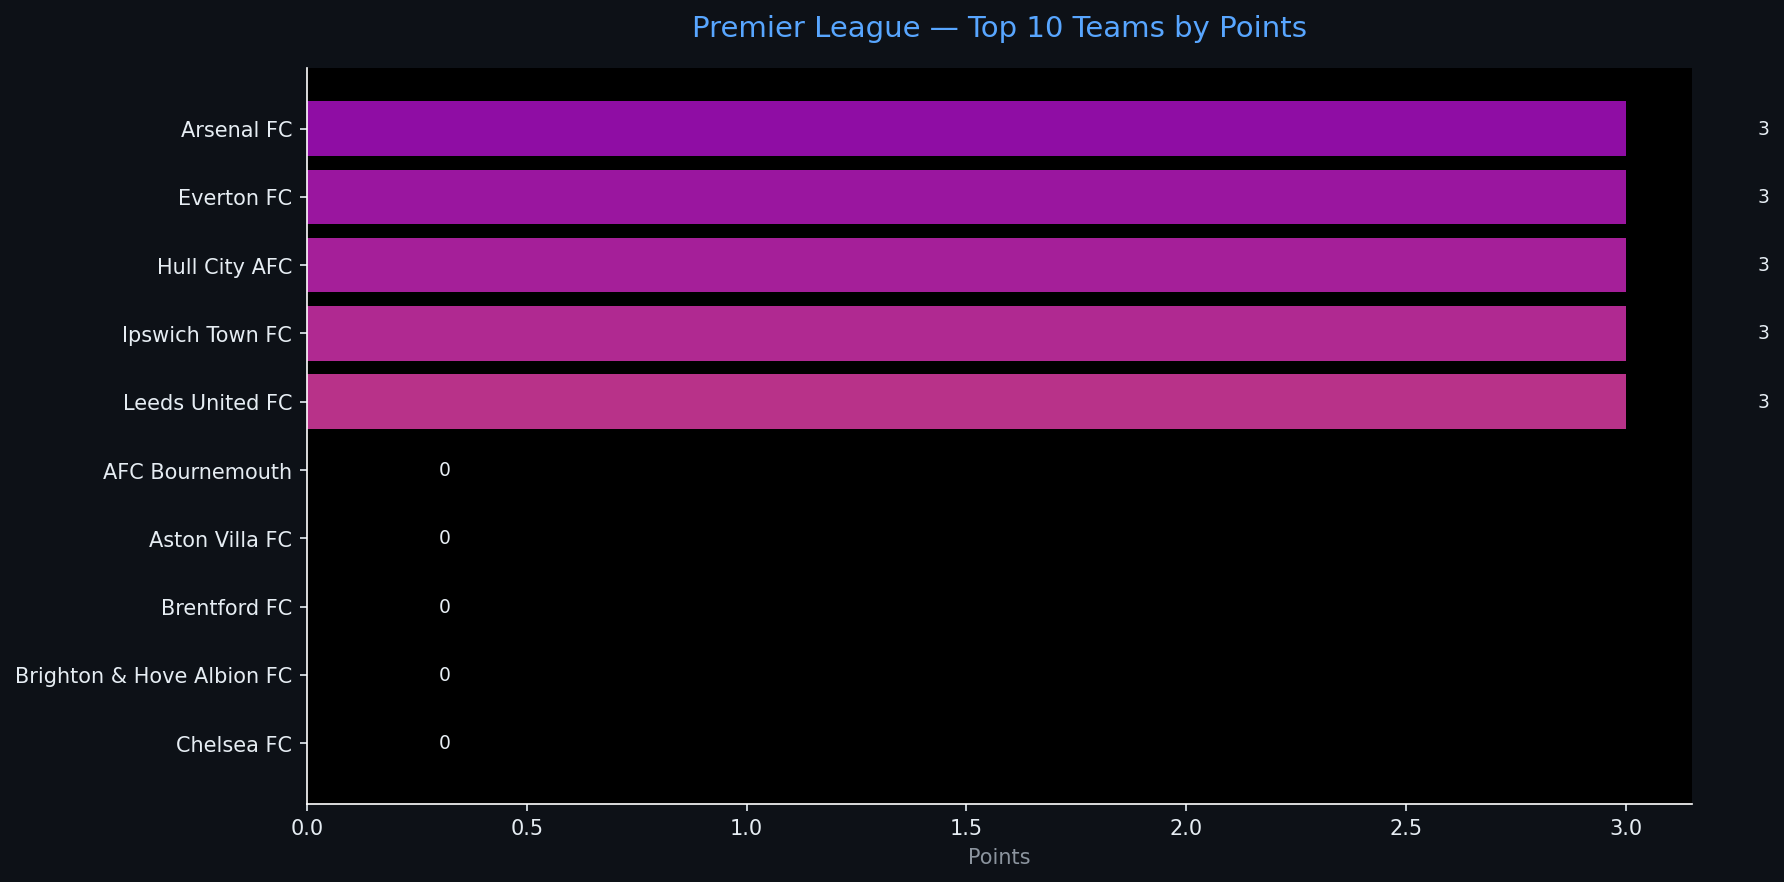
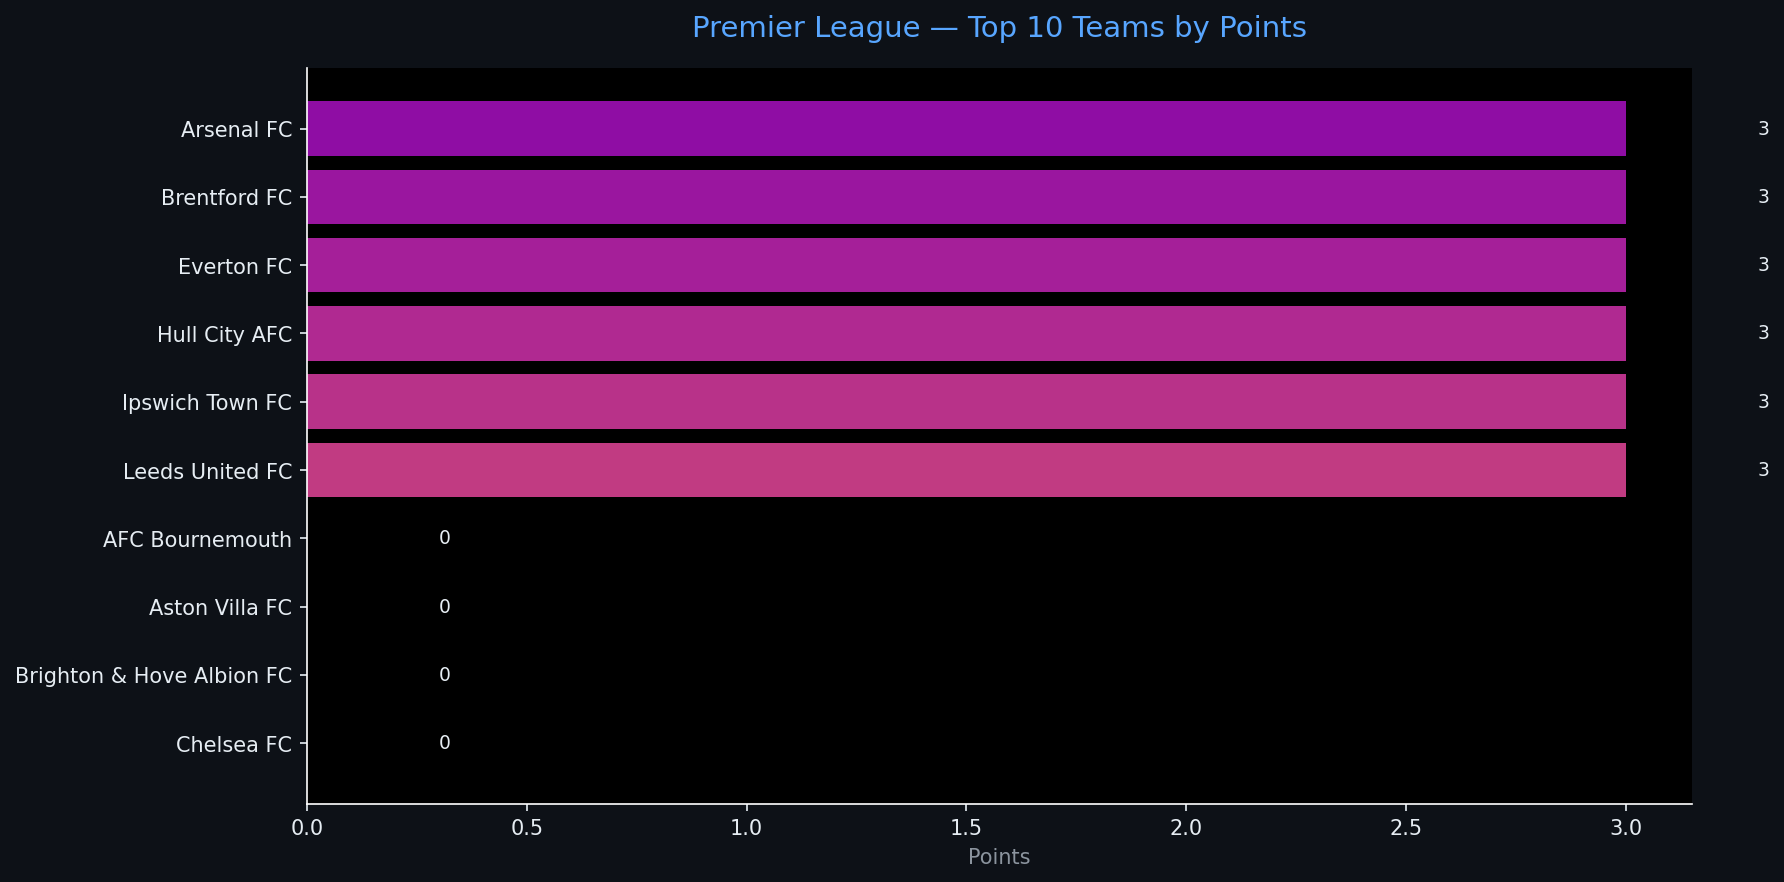
Automated ETL data update: 2026-08-22 18:18

diff --git a/reports/pipeline_report.html b/reports/pipeline_report.html
@@ -4,7 +4,7 @@
 <head>
     <meta charset="UTF-8">
     <meta name="viewport" content="width=device-width, initial-scale=1.0">
-    <title>Sports Data Pipeline Report — 2026-08-22 16:15</title>
+    <title>Sports Data Pipeline Report — 2026-08-22 18:18</title>
     <style>
         body { font-family: 'Segoe UI', sans-serif; background: #0d1117; color: #e6edf3; margin: 0; padding: 2rem; }
         h1   { color: #58a6ff; border-bottom: 1px solid #30363d; padding-bottom: 0.5rem; }
@@ -20,7 +20,7 @@
 </head>
 <body>
     <h1>⚽ Sports Data Pipeline — Automated Report</h1>
-    <p class="meta">Generated: 2026-08-22 16:15 UTC &nbsp;|&nbsp; Sport: <strong>football</strong> &nbsp;|&nbsp; Rows: <strong>20</strong></p>
+    <p class="meta">Generated: 2026-08-22 18:18 UTC &nbsp;|&nbsp; Sport: <strong>football</strong> &nbsp;|&nbsp; Rows: <strong>20</strong></p>
     <span class="badge">Pipeline v1.0.0</span>
     <h2>📊 Data Table</h2>
     <table class="dataframe data-table">
@@ -58,7 +58,22 @@
       <td>NaN</td>
     </tr>
     <tr>
-      <td>2</td>
+      <td>1</td>
+      <td>Brentford FC</td>
+      <td>1</td>
+      <td>3</td>
+      <td>1</td>
+      <td>0</td>
+      <td>0</td>
+      <td>3</td>
+      <td>0</td>
+      <td>1.000</td>
+      <td>3.000</td>
+      <td>1.000</td>
+      <td>NaN</td>
+    </tr>
+    <tr>
+      <td>3</td>
       <td>Everton FC</td>
       <td>1</td>
       <td>3</td>
@@ -73,7 +88,7 @@
       <td>NaN</td>
     </tr>
     <tr>
-      <td>2</td>
+      <td>3</td>
       <td>Hull City AFC</td>
       <td>1</td>
       <td>3</td>
@@ -88,7 +103,7 @@
       <td>NaN</td>
     </tr>
     <tr>
-      <td>4</td>
+      <td>5</td>
       <td>Ipswich Town FC</td>
       <td>1</td>
       <td>3</td>
@@ -103,7 +118,7 @@
       <td>NaN</td>
     </tr>
     <tr>
-      <td>5</td>
+      <td>6</td>
       <td>Leeds United FC</td>
       <td>1</td>
       <td>3</td>
@@ -118,7 +133,7 @@
       <td>NaN</td>
     </tr>
     <tr>
-      <td>6</td>
+      <td>7</td>
       <td>AFC Bournemouth</td>
       <td>0</td>
       <td>0</td>
@@ -133,7 +148,7 @@
       <td>NaN</td>
     </tr>
     <tr>
-      <td>6</td>
+      <td>7</td>
       <td>Aston Villa FC</td>
       <td>0</td>
       <td>0</td>
@@ -148,22 +163,7 @@
       <td>NaN</td>
     </tr>
     <tr>
-      <td>6</td>
-      <td>Brentford FC</td>
-      <td>0</td>
-      <td>0</td>
-      <td>0</td>
-      <td>0</td>
-      <td>0</td>
-      <td>0</td>
-      <td>0</td>
-      <td>0.000</td>
-      <td>0.000</td>
-      <td>0.000</td>
-      <td>NaN</td>
-    </tr>
-    <tr>
-      <td>6</td>
+      <td>7</td>
       <td>Brighton &amp; Hove Albion FC</td>
       <td>0</td>
       <td>0</td>
@@ -178,7 +178,7 @@
       <td>NaN</td>
     </tr>
     <tr>
-      <td>6</td>
+      <td>7</td>
       <td>Chelsea FC</td>
       <td>0</td>
       <td>0</td>
@@ -193,7 +193,7 @@
       <td>NaN</td>
     </tr>
     <tr>
-      <td>6</td>
+      <td>7</td>
       <td>Fulham FC</td>
       <td>0</td>
       <td>0</td>
@@ -208,7 +208,7 @@
       <td>NaN</td>
     </tr>
     <tr>
-      <td>6</td>
+      <td>7</td>
       <td>Liverpool FC</td>
       <td>0</td>
       <td>0</td>
@@ -223,7 +223,7 @@
       <td>NaN</td>
     </tr>
     <tr>
-      <td>6</td>
+      <td>7</td>
       <td>Manchester City FC</td>
       <td>0</td>
       <td>0</td>
@@ -238,7 +238,7 @@
       <td>NaN</td>
     </tr>
     <tr>
-      <td>6</td>
+      <td>7</td>
       <td>Newcastle United FC</td>
       <td>0</td>
       <td>0</td>
@@ -253,22 +253,7 @@
       <td>NaN</td>
     </tr>
     <tr>
-      <td>6</td>
-      <td>Tottenham Hotspur FC</td>
-      <td>0</td>
-      <td>0</td>
-      <td>0</td>
-      <td>0</td>
-      <td>0</td>
-      <td>0</td>
-      <td>0</td>
-      <td>0.000</td>
-      <td>0.000</td>
-      <td>0.000</td>
-      <td>NaN</td>
-    </tr>
-    <tr>
-      <td>16</td>
+      <td>15</td>
       <td>Sunderland AFC</td>
       <td>1</td>
       <td>0</td>
@@ -283,7 +268,7 @@
       <td>NaN</td>
     </tr>
     <tr>
-      <td>17</td>
+      <td>16</td>
       <td>Nottingham Forest FC</td>
       <td>1</td>
       <td>0</td>
@@ -298,7 +283,7 @@
       <td>NaN</td>
     </tr>
     <tr>
-      <td>18</td>
+      <td>17</td>
       <td>Crystal Palace FC</td>
       <td>1</td>
       <td>0</td>
@@ -313,7 +298,7 @@
       <td>NaN</td>
     </tr>
     <tr>
-      <td>18</td>
+      <td>17</td>
       <td>Manchester United FC</td>
       <td>1</td>
       <td>0</td>
@@ -328,8 +313,23 @@
       <td>NaN</td>
     </tr>
     <tr>
-      <td>20</td>
+      <td>19</td>
       <td>Coventry City FC</td>
+      <td>1</td>
+      <td>0</td>
+      <td>0</td>
+      <td>0</td>
+      <td>1</td>
+      <td>0</td>
+      <td>3</td>
+      <td>0.000</td>
+      <td>0.000</td>
+      <td>0.000</td>
+      <td>NaN</td>
+    </tr>
+    <tr>
+      <td>19</td>
+      <td>Tottenham Hotspur FC</td>
       <td>1</td>
       <td>0</td>
       <td>0</td>
@@ -360,9 +360,9 @@
         
         <tr><td>Total Columns</td><td>29</td></tr>
         
-        <tr><td>Null Values</td><td>108</td></tr>
+        <tr><td>Null Values</td><td>106</td></tr>
         
-        <tr><td>Run Timestamp (UTC)</td><td>2026-08-22T16:15:33.429048</td></tr>
+        <tr><td>Run Timestamp (UTC)</td><td>2026-08-22T18:18:53.526743</td></tr>
         
         <tr><td>ML Features Ready</td><td>False</td></tr>
         
